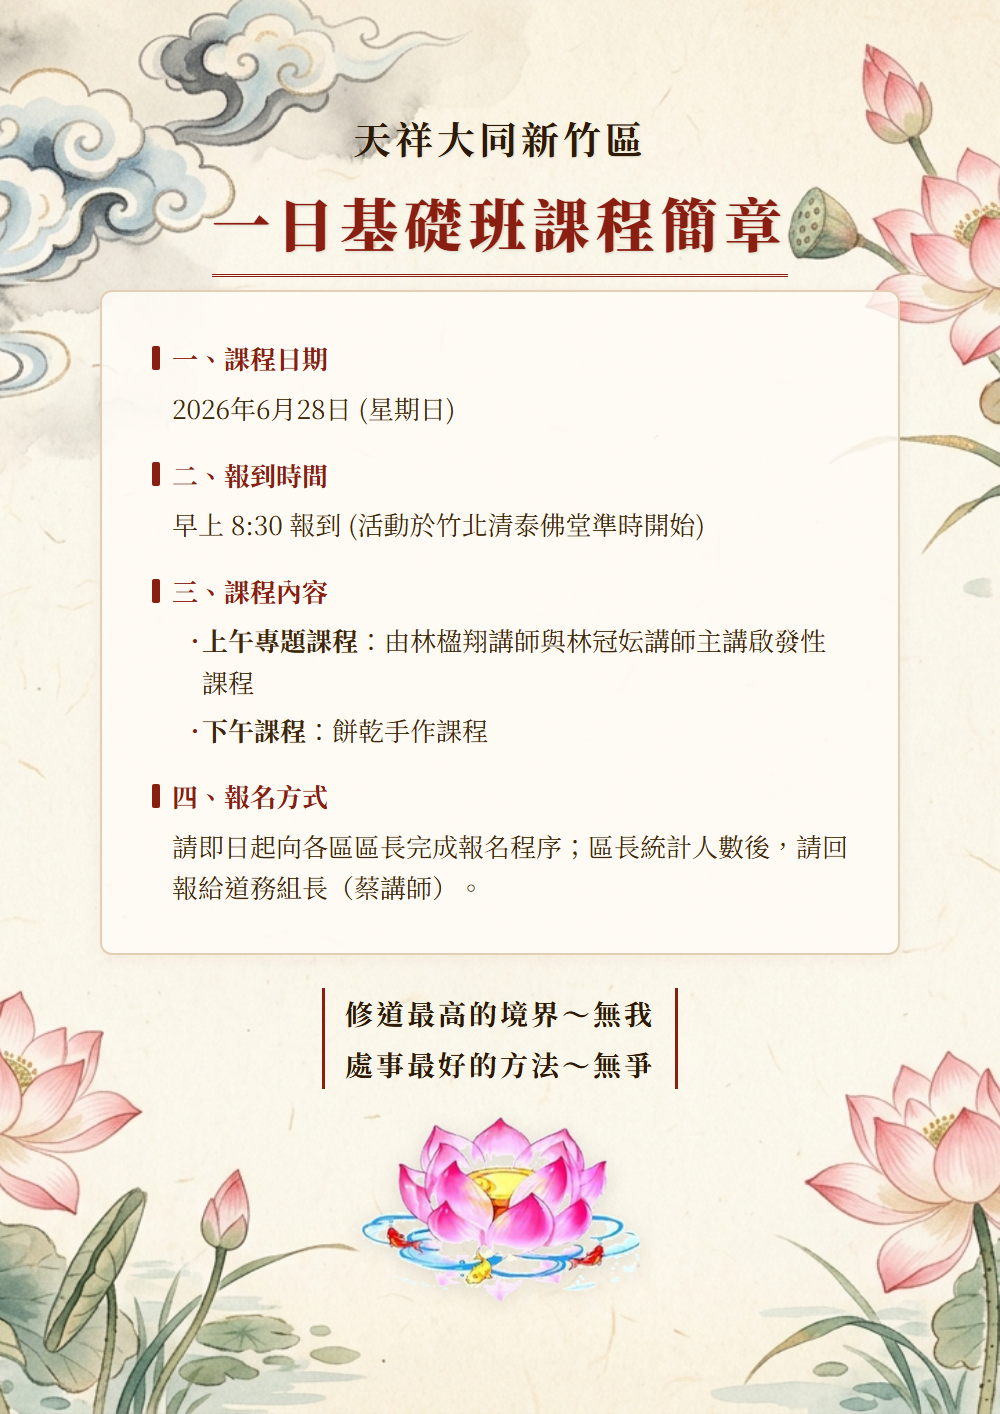
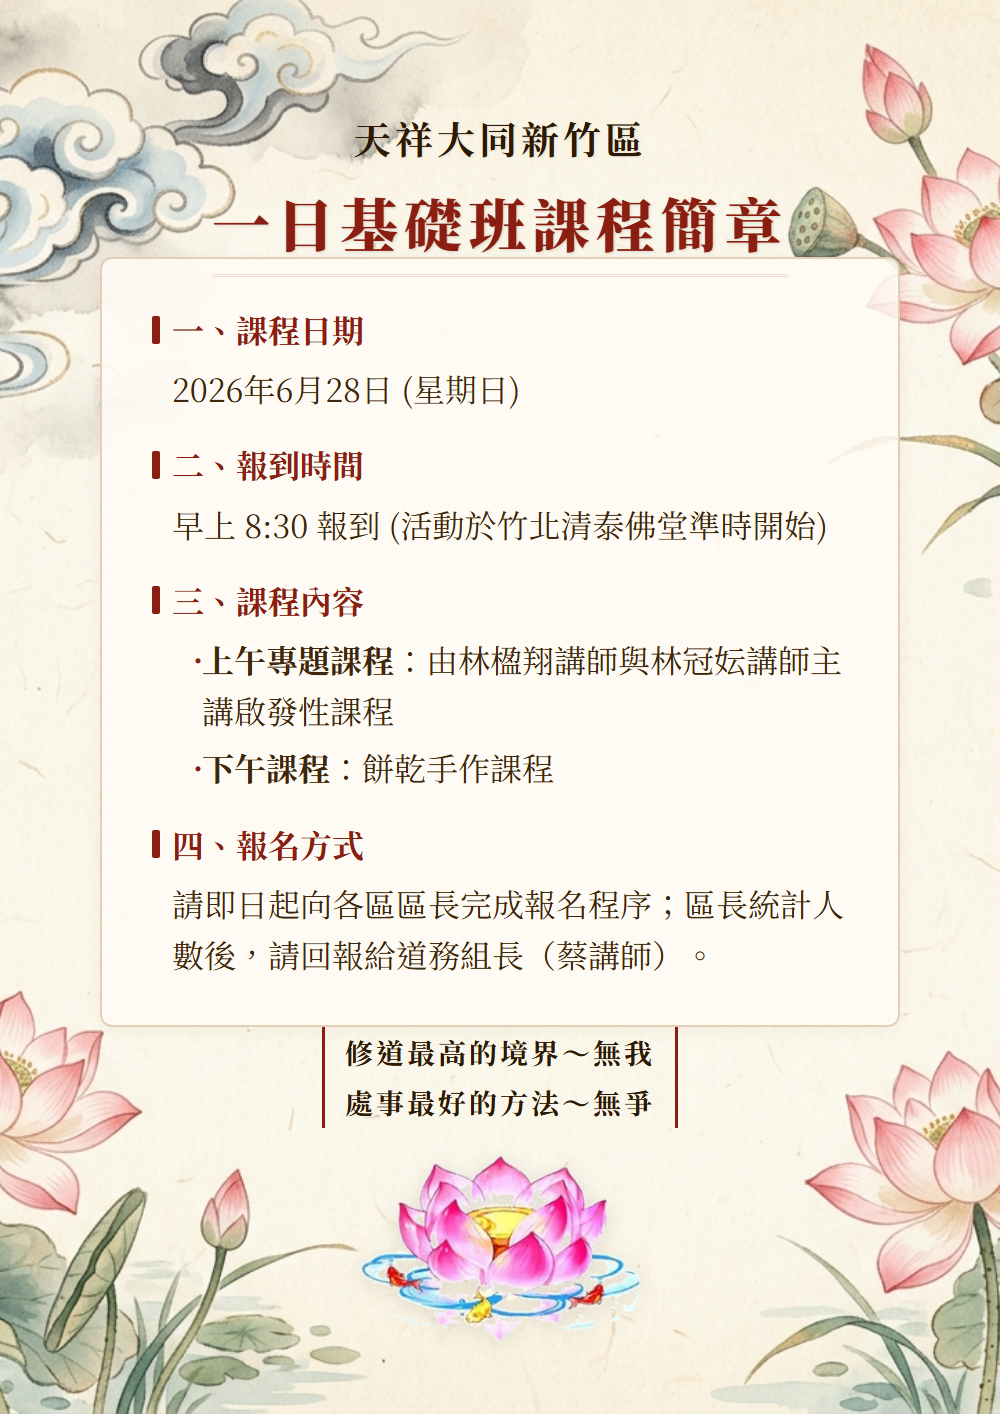
style: enlarge font size of description items on course poster
- Increased font size of description list items in index.html to 32px.
- Adjusted prefix indicator height to 28px.
- Re-rendered poster.png.

Changed region(s): [[0.093, 0.1556, 0.837, 0.9646], [0.868, 0.1867, 0.899, 0.2178]]

diff --git a/public/course poster/index.html b/public/course poster/index.html
@@ -71,7 +71,7 @@
         
         .item {
             margin-bottom: 25px;
-            font-size: 26px;
+            font-size: 32px;
             line-height: 1.6;
             color: #3e270c;
         }
@@ -92,7 +92,7 @@
             content: "";
             display: inline-block;
             width: 8px;
-            height: 24px;
+            height: 28px;
             background-color: #8a1f11;
             margin-right: 12px;
             border-radius: 2px;
